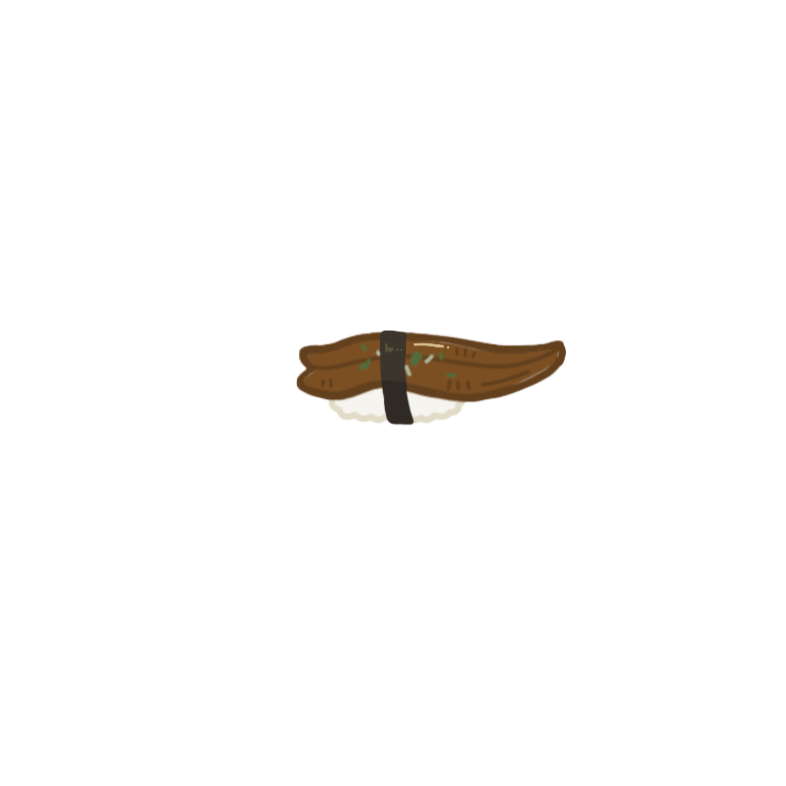
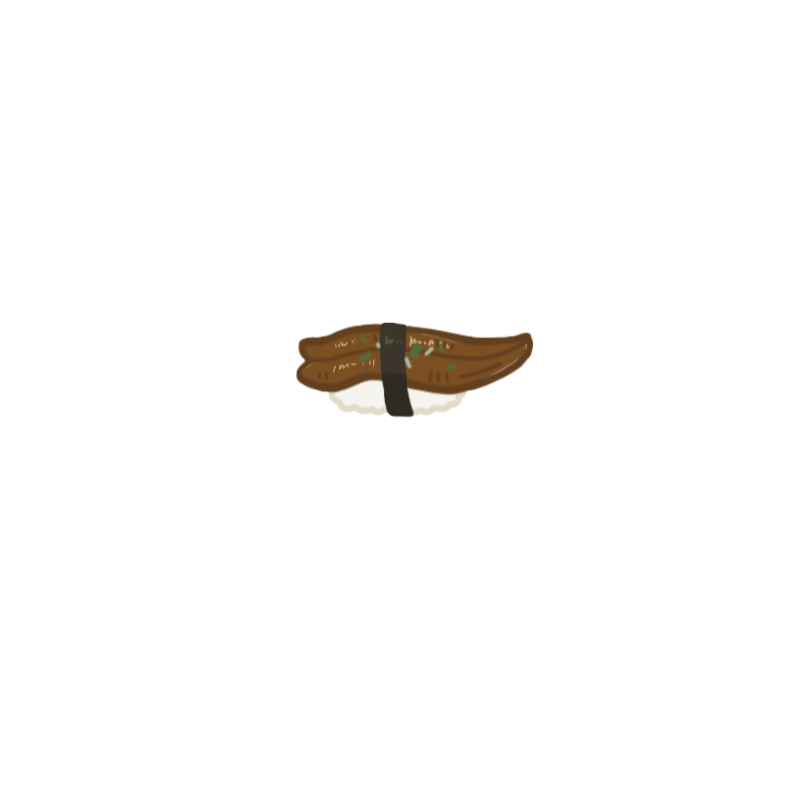
feat:홈화면입장디테일

Changed region(s): [[0.3664, 0.3969, 0.7328, 0.5496]]

diff --git a/frontend/gomin/src/pages/Home.jsx b/frontend/gomin/src/pages/Home.jsx
@@ -17,7 +17,7 @@ import SushiUnlockBar from "../components/SushiUnlockBar";
 
 //이미지 파일
 import bgImg from "../assets/home/back.webp";
-import deskImg from "../assets/home/desk.webp";
+import deskImg from "../assets/home/rail.webp";
 import masterImg from "../assets/home/master.webp";
 import SushiView from "./SushiView";
 
@@ -92,6 +92,20 @@ const Home = () => {
 
   const allImagesLoaded = Object.values(imagesLoaded).every((loaded) => loaded);
 
+<<<<<<< Updated upstream
+=======
+  /** 로그인 상태가 아니면 인트로 페이지로 리다이렉트 */
+  // const navigate = useNavigate();
+  // const accessToken = useSelector((state) => state.member?.accessToken);
+
+  // useEffect(() => {
+  //   if (!accessToken) {
+  //     navigate("/", { replace: true });
+  //   }
+  // }, [accessToken, navigate]);
+  /** 여기 까지 */
+
+>>>>>>> Stashed changes
   return (
     <>
       {/* 배경 이미지 */}
@@ -223,7 +237,7 @@ const styles = {
   },
   rail: {
     position: "absolute",
-    bottom: "60%",
+    bottom: "56%",
     left: "50%",
     width: "100%",
     transform: "translateX(-50%)",

diff --git a/frontend/gomin/src/components/Sushi.jsx b/frontend/gomin/src/components/Sushi.jsx
@@ -120,8 +120,8 @@ const Sushi = ({
             src={plateImage}
             alt={`Plate for ${categoryName}`}
             style={{
-              width: "18vh",
-              height: "17vh",
+              width: "16vh",
+              height: "15vh",
               position: "absolute",
               top: "45%",
               left: "50%",
@@ -137,13 +137,13 @@ const Sushi = ({
             src={sushiName.image}
             alt={sushiName.name}
             style={{
-              width: "48vh",
+              width: "46vh",
               height: "10vh",
               overflow: "hidden", // 넘치는 부분 숨기기
               objectFit: "cover",
               objectPosition: "center",
               position: "absolute",
-              top: "48%",
+              top: "47.8%",
               left: "49%",
               transform: "translate(-50%, -50%)",
               willChange: "transform", // 모바일 최적화

diff --git a/frontend/gomin/src/api/axios.jsx b/frontend/gomin/src/api/axios.jsx
@@ -7,10 +7,10 @@ const api = axios.create({
 api.interceptors.request.use((config) => {
   // const token = useSelector((state) => state.member.accessToken);
 
-  const token = localStorage.getItem("accessToken");
-  config.headers.Authorization = `Bearer ${token}`;
+  // const token = localStorage.getItem("accessToken");
+  // config.headers.Authorization = `Bearer ${token}`;
 
-  // config.headers.Authorization = `Bearer test`;
+  config.headers.Authorization = `Bearer test`;
 
   return config;
 });

diff --git a/frontend/gomin/src/App.jsx b/frontend/gomin/src/App.jsx
@@ -20,8 +20,8 @@ function App() {
   const shouldShowNavbar = location.pathname !== "/";
 
   useEffect(() => {
-    const accessToken = localStorage.getItem("accessToken");
-    // const accessToken = "123";
+    // const accessToken = localStorage.getItem("accessToken");
+    const accessToken = "123";
 
     if (!accessToken && location.pathname !== "/") {
       navigate("/", { replace: true });
